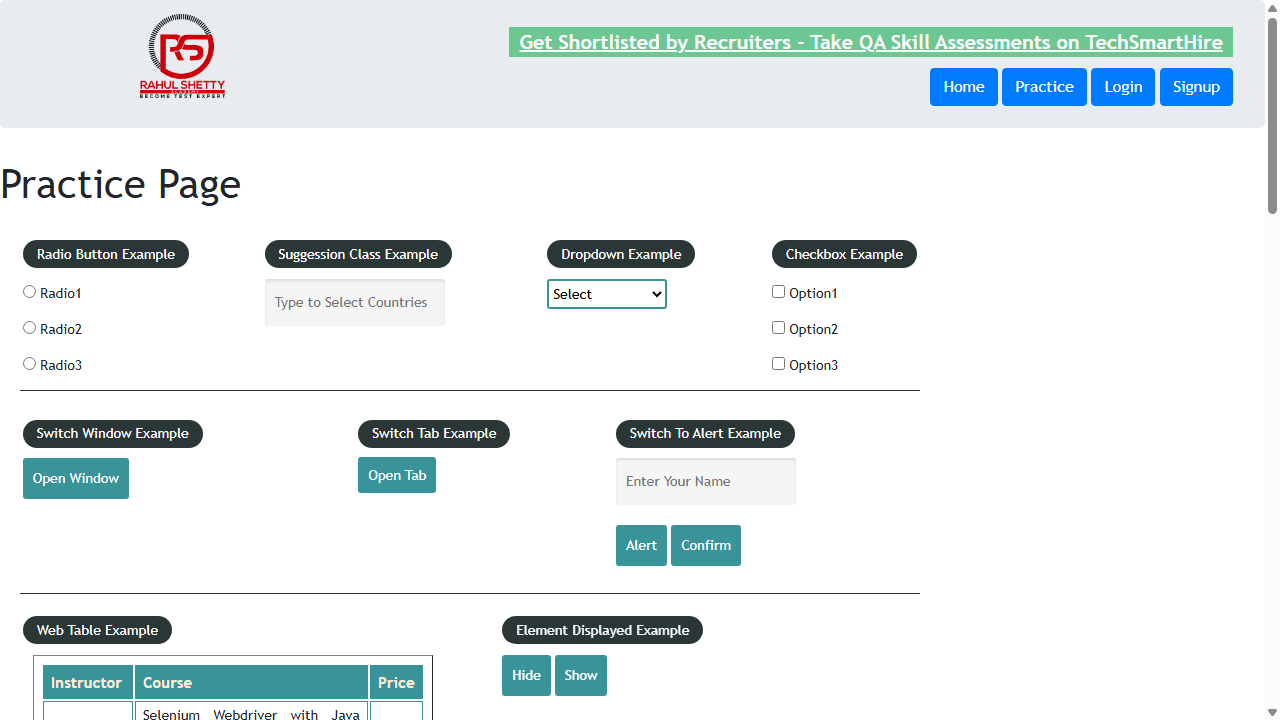
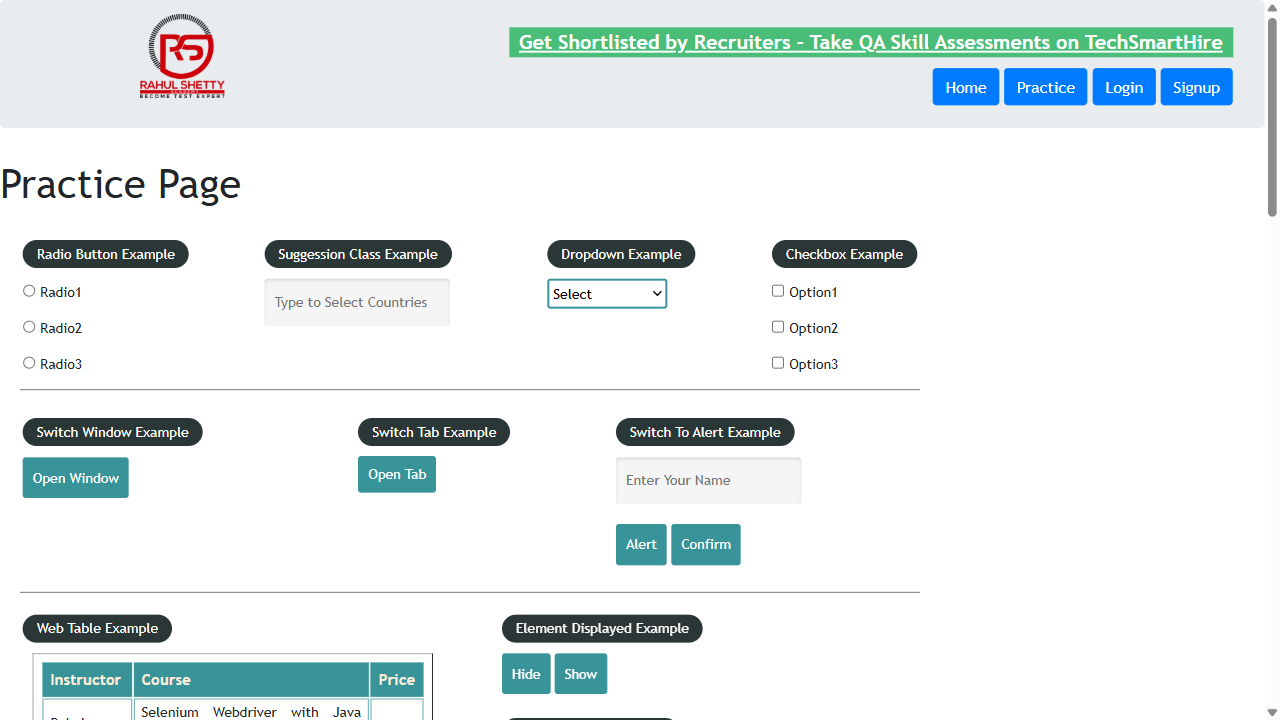
updated the tags

diff --git a/tests/ClientAppPlaceOrderTest.spec.js b/tests/ClientAppPlaceOrderTest.spec.js
@@ -5,7 +5,7 @@ const { OrderSummeryPage } = require('../pageObjects/OrderSummeryPage');
 const placeOrderData = JSON.parse(JSON.stringify(require('../TestData/placeOrderTestData.json')))
 // test.describe.configure({mode:'serial'})
 for (const data of placeOrderData) {
-    test(`@web Client App Place Order ${data.productName}`, async ({ page }) => {
+    test(`Client App Place Order ${data.productName}`, async ({ page }) => {
 
         const pageObjectManager = new PageObjectManager(page);
         const loginPage = pageObjectManager.getLoginPage();

diff --git a/tests/ClientAppWithPageObjectManager.spec.js b/tests/ClientAppWithPageObjectManager.spec.js
@@ -2,7 +2,7 @@ const {test, expect} = require('@playwright/test')
 const {PageObjectManager}=require('../pageObjects/PageObjectManager');
 const { OrderSummeryPage } = require('../pageObjects/OrderSummeryPage');
 
-test('Client app place practice', async ({page})=>{
+test(`@web Client app place practice`, async ({page})=>{
 
      const username = 'seshu99@gmail.com';
     const password ='Seshu24@';
